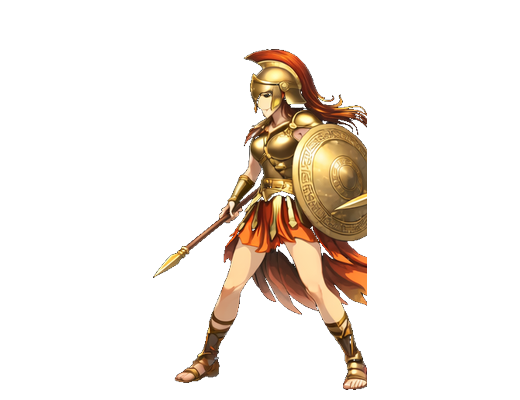
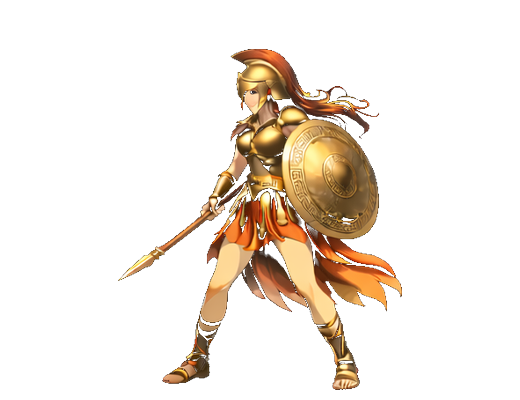
auto-commit for 2bfea4a4-1744-4789-be61-a3ea3efbb1f6

Changed region(s): [[0.2462, 0.12, 0.7692, 0.99]]

diff --git a/frontend/components/ui/HeroHopliteIdleLoop.tsx b/frontend/components/ui/HeroHopliteIdleLoop.tsx
@@ -1,44 +1,46 @@
 /**
- * HeroHopliteIdleLoop — IDLE FRAME-BASED (HARD SWAP, REFERENCE v2)
- * ==================================================================
+ * HeroHopliteIdleLoop — IDLE FRAME-BASED (HARD SWAP, SHEET v3 DEFINITIVA)
+ * =========================================================================
  *
- * Source of truth: nuova idle sheet approvata dall'utente (v2, 5 pose).
- *   1. IDLE BASE           — spear dietro, guardia neutra
- *   2. BREATH IN START     — spear scende laterale
- *   3. GUARD TIGHT PEAK    — spear forward, stance compatta (key peak)
- *   4. SETTLE OPEN         — spear torna laterale
- *   5. LOOP RETURN         — ritorno a IDLE BASE (loop seamless)
+ * Source of truth DEFINITIVA: idle sheet v3 approvata dall'utente
+ * (layout 3 top-row + 2 bottom-row, 5 pose).
  *
- * TIMING (richiesto utente — frame 3 più corto per evitare sensazione attack-like):
- *   Frame 1 → 520ms   (stabile)
- *   Frame 2 → 360ms   (transizione)
- *   Frame 3 → 260ms   (peak breve, evita "attack-like")
- *   Frame 4 → 360ms   (transizione)
- *   Frame 5 → 520ms   (stabile, pre-loop)
- *   Totale ciclo = 2020ms
+ *   1. IDLE BASE          — (top-left)    spear al fianco rilassato
+ *   2. BREATH IN START    — (top-center)  spear inizia a salire
+ *   3. GUARD TIGHT PEAK   — (top-right)   spear FORWARD esteso (peak teso)
+ *   4. SETTLE OPEN        — (bottom-left) stance apre, spear indietro
+ *   5. LOOP RETURN        — (bottom-right) ritorno a IDLE BASE
+ *
+ * TIMING DEFINITIVO (richiesto utente Msg 512):
+ *   Frame 1 → 520ms   (stabile — IDLE BASE)
+ *   Frame 2 → 280ms   (transizione breath in)
+ *   Frame 3 → 220ms   (PEAK TESO — il più corto, evita sensazione attack-like)
+ *   Frame 4 → 320ms   (settle open)
+ *   Frame 5 → 520ms   (stabile — pre-loop)
+ *   Totale ciclo = 1860ms
  *
  * RENDERING:
- *  - Un solo <Image> renderizzato alla volta → ZERO ghosting, ZERO alone.
- *  - Swap frame netti (setTimeout + state swap), NO opacity crossfade.
+ *  - Un solo <Image> renderizzato alla volta → ZERO ghosting.
+ *  - Swap frame netti (setTimeout ricorsivo + state), NO crossfade opacity.
  *  - Nessun translateY / scaleY / bob wrapper.
  *  - scaleX: -1 per facing coerente con Affondo/GuardiaFerrea.
  *
  * GEOMETRIA (allineata ad Affondo/GuardiaFerrea):
- *   Canvas 520×400, feet anchor (260, 390), body_h reale = 341px.
+ *   Canvas 520×400, feet anchor (260, 390), body_h = 341px esatto.
  *   → stessa presenza scenica, zero scatto su transizioni idle↔attack↔skill.
  */
 import React, { useEffect, useRef, useState } from 'react';
 import { View, Image, StyleSheet } from 'react-native';
 import { HOPLITE_IDLE_ASSETS } from './hopliteAssetManifest';
 
-const FRAMES = HOPLITE_IDLE_ASSETS;    // 5 frame idle (sheet v2)
+const FRAMES = HOPLITE_IDLE_ASSETS;    // 5 frame idle (sheet v3 definitiva)
 
-// Durate per-frame (ms) — da richiesta utente Msg 510
+// Durate per-frame (ms) — DEFINITIVE da richiesta utente Msg 512
 const FRAME_DURATIONS_MS = [
   520,  // #1 IDLE BASE
-  360,  // #2 BREATH IN START
-  260,  // #3 GUARD TIGHT PEAK  (più corto: evita sensazione attack-like)
-  360,  // #4 SETTLE OPEN
+  280,  // #2 BREATH IN START
+  220,  // #3 GUARD TIGHT PEAK (peak teso — più corto di tutti)
+  320,  // #4 SETTLE OPEN
   520,  // #5 LOOP RETURN
 ];
 
@@ -51,7 +53,7 @@ const FEET_CY_IN_FRAME = 390;
 // Allineamento feet-to-ground (stesso schema di Affondo/GuardiaFerrea)
 const RIG_FEET_Y_NORM = 800 / 1024;
 const RIG_BODY_H_NORM = 0.683;
-// Body height REALE dei PNG v2 = 341px (esattamente come Affondo)
+// Body height REALE dei PNG v3 = 341px (exact match con Affondo)
 const FRAME_BODY_H_PX = 341;
 
 type Props = {
